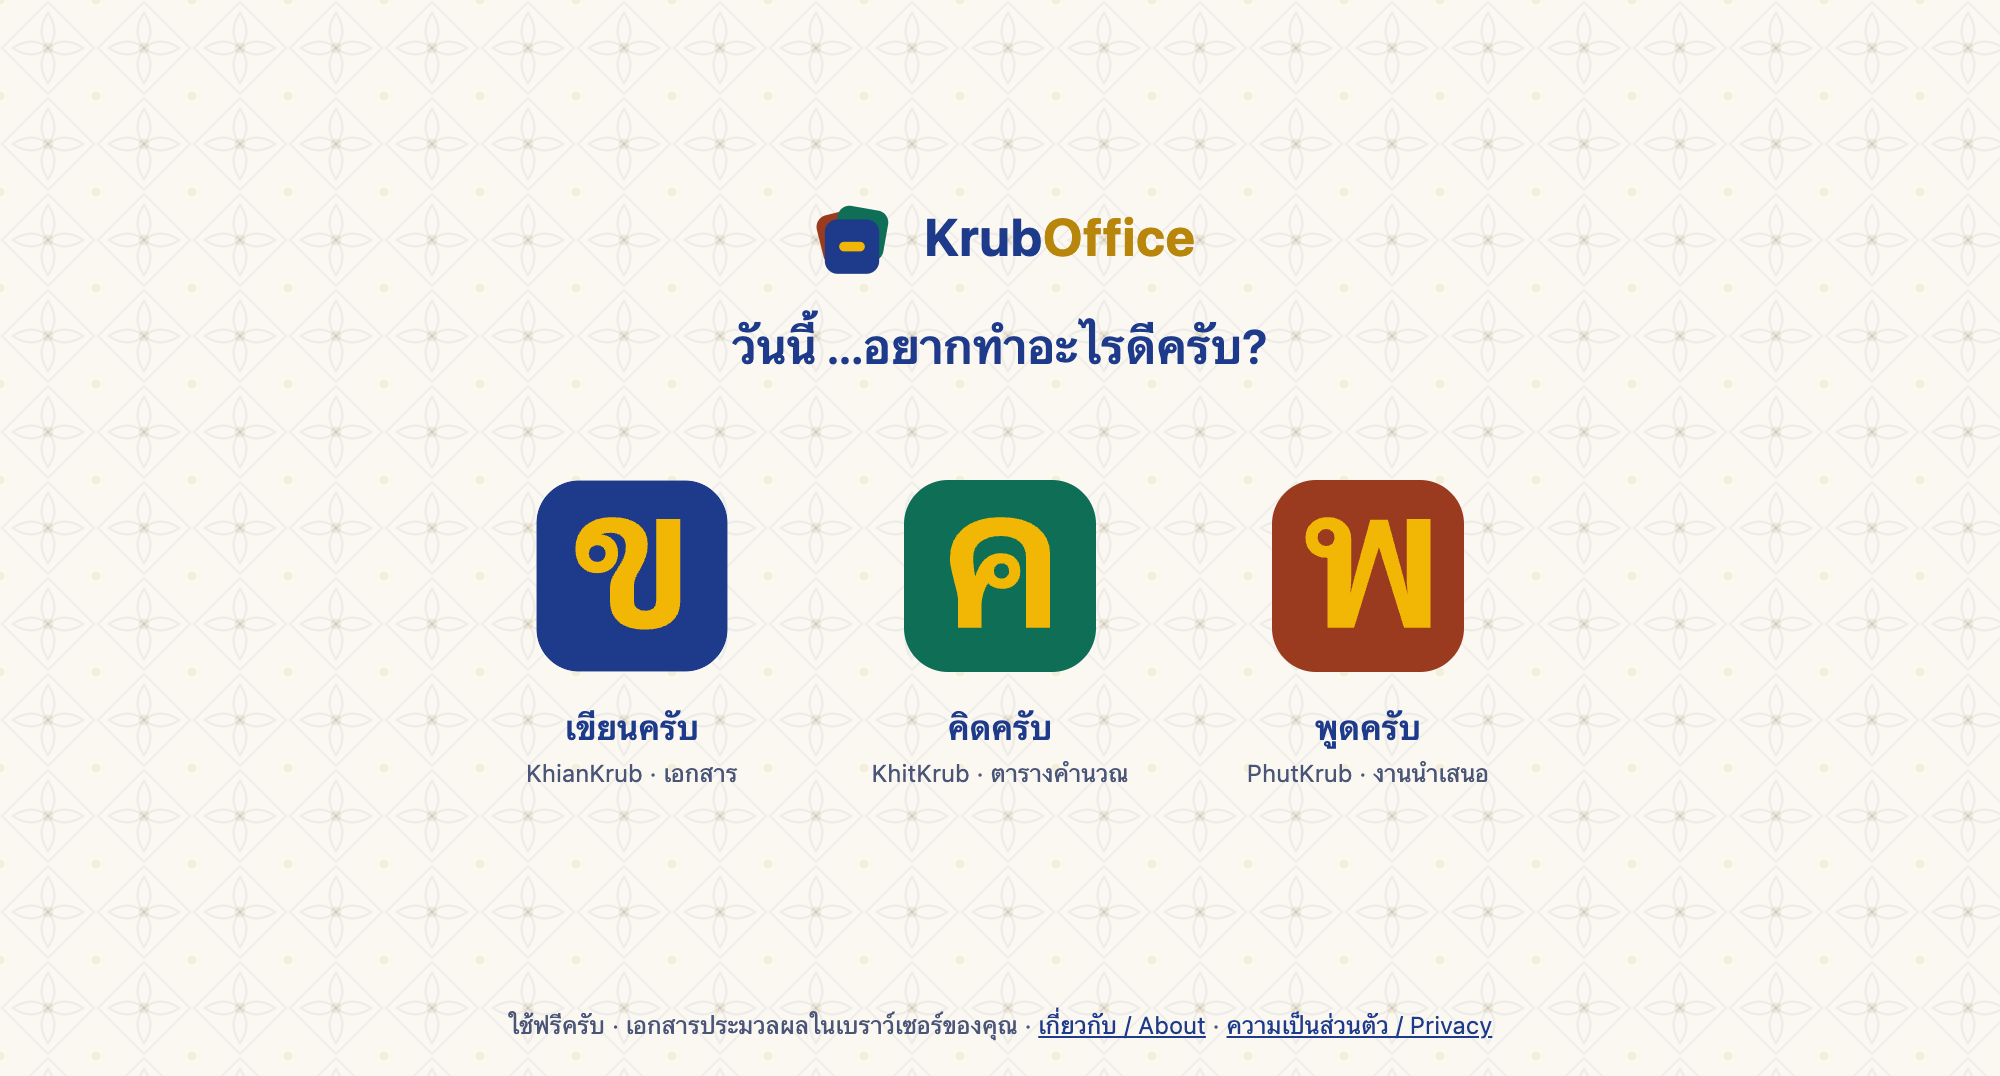
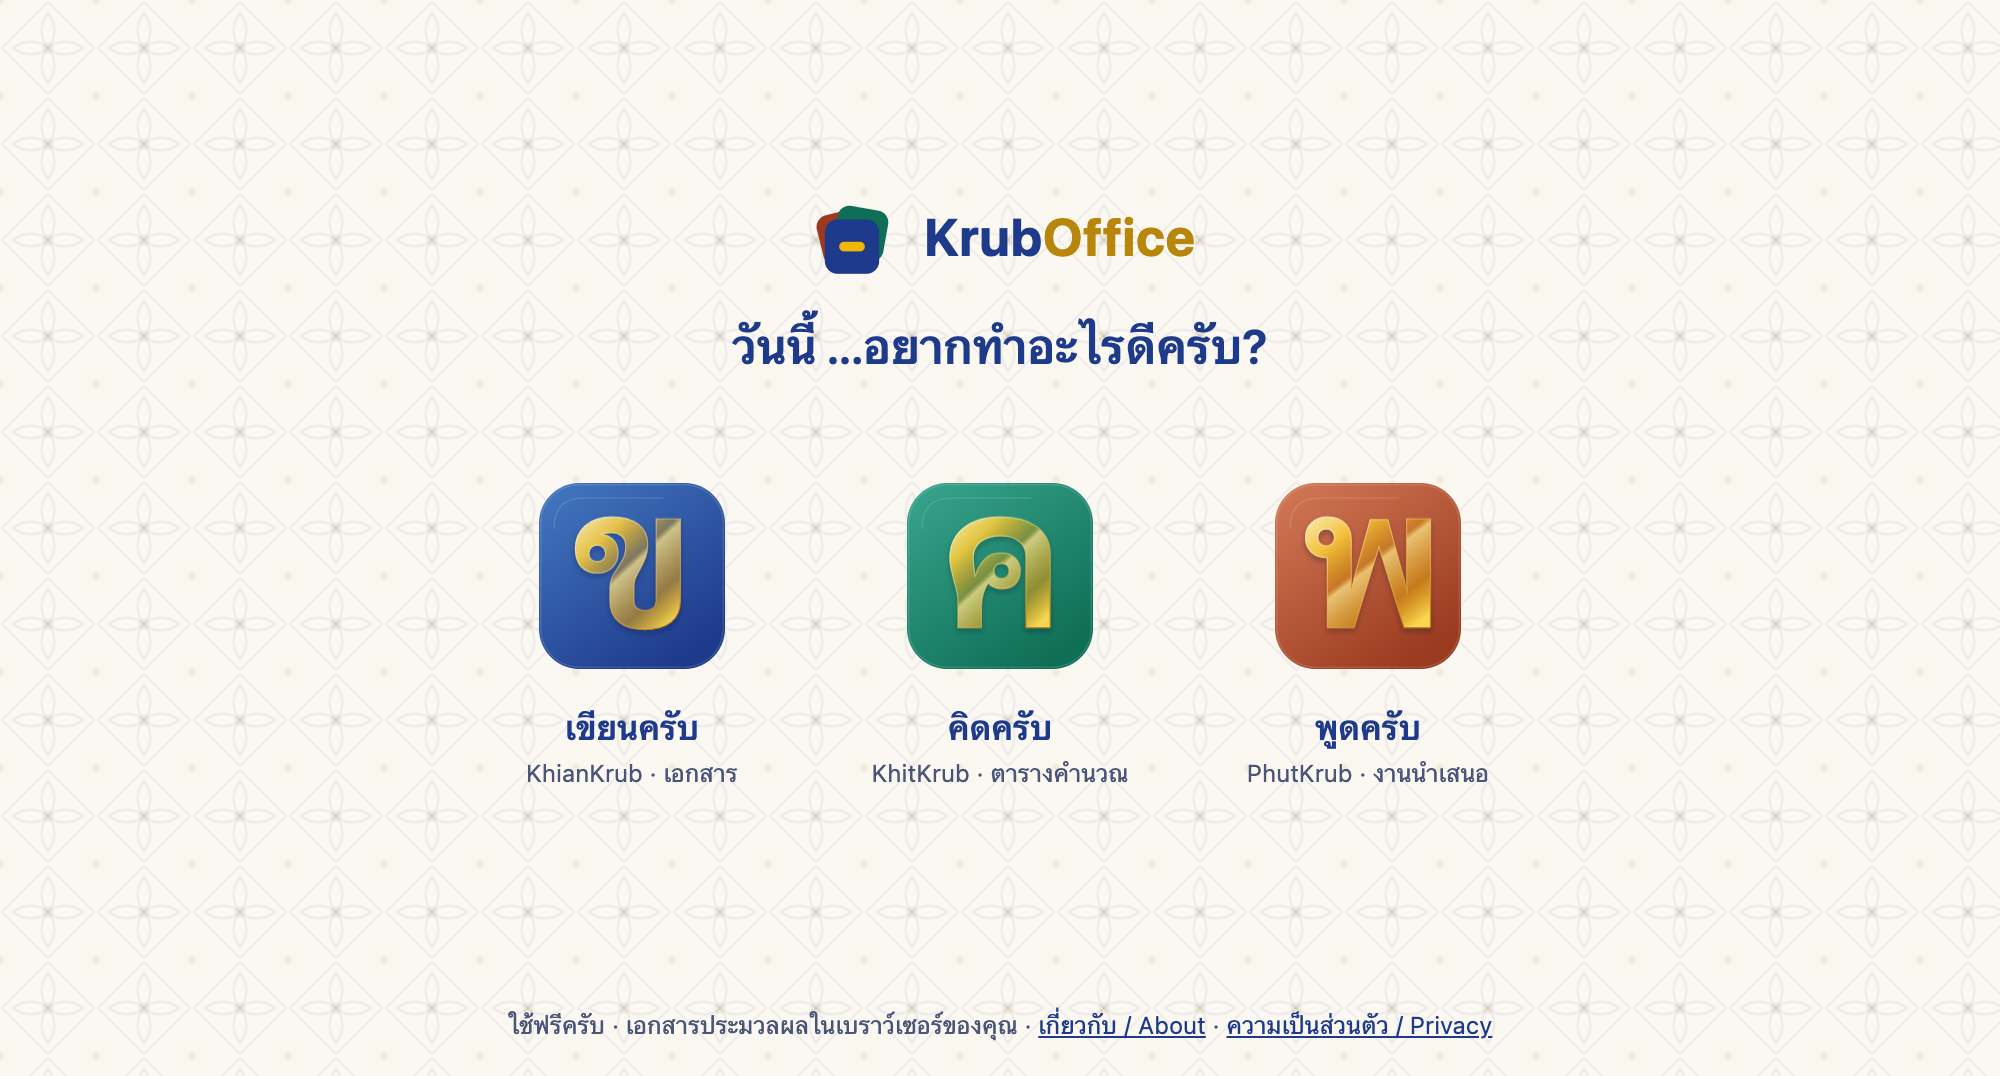
Publish KhianKrub web 0.11.0 (db21ffbe)

diff --git a/README.md b/README.md
@@ -50,7 +50,7 @@ Based on [WordCraft](https://github.com/storytold/wordcraft) by the ArtCraft tea
 
 <table>
 <tr>
-<td width="50%" valign="top"><img src="images/khiankrub-web-krubOffice.png" alt="The KrubOffice page: the three-tile logo, the greeting วันนี้ ...อยากทำอะไรดีครับ?, and three app icons, เขียนครับ (a gold ข on navy), คิดครับ (a gold ค on teal) and พูดครับ (a gold พ on coral), on an off-white background with a faint ประจำยาม lattice" width="100%"><p align="center"><sub><b>KrubOffice</b> · kruboffice.app</sub></p></td>
+<td width="50%" valign="top"><img src="images/khiankrub-web-krubOffice.png" alt="The KrubOffice page: the three-tile logo, the greeting วันนี้ ...อยากทำอะไรดีครับ?, and three glass app icons, เขียนครับ (a gold ข on navy), คิดครับ (a gold ค on teal) and พูดครับ (a gold พ on coral), on an off-white background with a faint ประจำยาม lattice" width="100%"><p align="center"><sub><b>KrubOffice</b> · kruboffice.app</sub></p></td>
 <td width="50%" valign="top"><img src="images/khiankrub-web-start.png" alt="The KhianKrub start screen in Thai: a top bar with เปิดไฟล์, Google Drive, ตัวเลือก and แอปทั้งหมด, the greeting สวัสดีครับ เริ่มเขียนอะไรดีครับ, five template thumbnails, and the section ฉบับร่างในเบราว์เซอร์นี้ครับ" width="100%"><p align="center"><sub><b>หน้าเริ่มต้น / Start screen</b> · khiankrub.app</sub></p></td>
 </tr>
 </table>
@@ -152,4 +152,4 @@ This public repository contains the built web app, screenshots, documentation an
 
 KhianKrub is based on [WordCraft](https://github.com/storytold/wordcraft) by the ArtCraft team, adapted by Chanon Sarasuk. It is not affiliated with or endorsed by the ArtCraft team. WordCraft's [MIT](LICENSE-MIT) and [Apache-2.0](LICENSE-APACHE) licences, [NOTICE](NOTICE), [asset attribution](ATTRIBUTION.md), and the font licences in `fonts/` accompany the built app. The TLWG fonts (version 0.7.4) are the publisher's unmodified files; their [source release](https://github.com/tlwg/fonts-tlwg/releases/tag/v0.7.4) is also kept in `fonts/`. Screenshots show KhianKrub itself with original example text.
 
-Prepared from version **0.11.0**, source commit `3c444ddc`.
+Prepared from version **0.11.0**, source commit `db21ffbe`.
